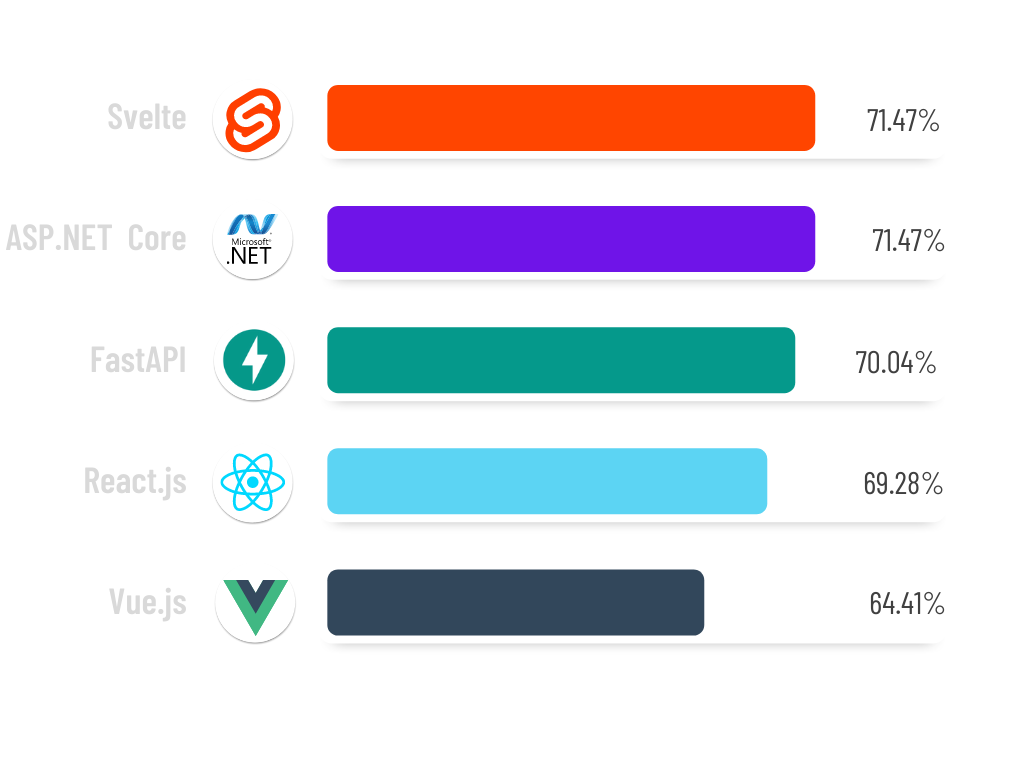
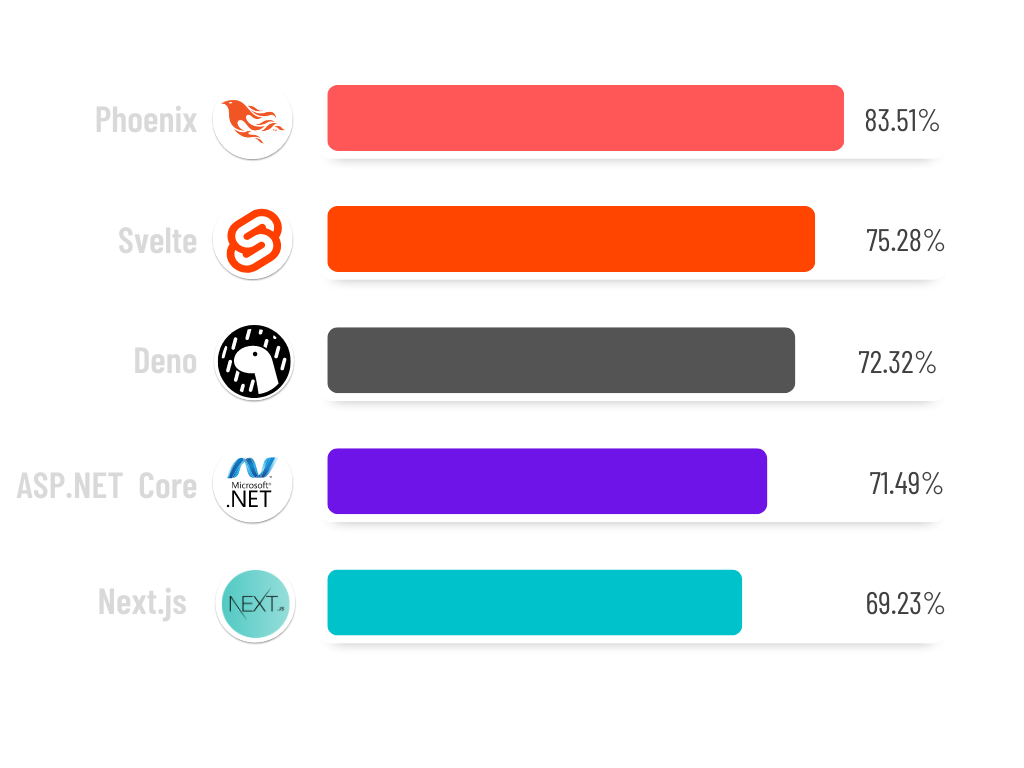
2022 survey update and demo inclusion

diff --git a/index.html b/index.html
@@ -62,7 +62,7 @@
           <h1>So, what about the hype?</h1>
         </section>
         <section>
-          <h2>Stackoverflow most loved web framework 2021</h2>
+          <h2>Stackoverflow most loved web framework 2022</h2>
           <img height="700" data-src="/assets/stackoverflow-chart.PNG" />
         </section>
         <section>
@@ -259,29 +259,6 @@
         </section>
 
         <section>
-          <h1>
-            The
-            <span
-              style="
-                background-image: linear-gradient(
-                  to left,
-                  violet,
-                  indigo,
-                  blue,
-                  green,
-                  yellow,
-                  orange,
-                  red
-                );
-                -webkit-background-clip: text;
-                -webkit-text-fill-color: transparent;
-              "
-              >magical</span
-            >
-            disappearing framework
-          </h1>
-        </section>
-        <section>
           <div style="display: flex; flex-direction: row; gap: 0.5rem">
             <pre class="javascript">
             <code class="hljs" style="font-size: 1rem; line-height: 1.1rem;" data-trim><script type="text/template">
@@ -323,6 +300,31 @@
           </pre>
           </div>
         </section>
+
+        <section>
+          <h1>
+            The
+            <span
+              style="
+                background-image: linear-gradient(
+                  to left,
+                  violet,
+                  indigo,
+                  blue,
+                  green,
+                  yellow,
+                  orange,
+                  red
+                );
+                -webkit-background-clip: text;
+                -webkit-text-fill-color: transparent;
+              "
+              >magical</span
+            >
+            disappearing framework
+          </h1>
+        </section>
+
         <section data-transition="slide-in none">
           <img
             style="margin-bottom: 0"
@@ -686,9 +688,9 @@
             </li>
           </ul>
         </section>
-        <!-- <section>
+        <section>
           <h1>DEMO 🤓</h2>
-        </section> -->
+        </section>
         <section>
           <h2>Thank you for your attention!</h2>
           <img src="/assets/meme3.webp" width="800" />
@@ -702,7 +704,7 @@
         </section>
       </div>
     </div>
-
+npm 
     <script src="dist/reveal.js"></script>
     <script src="plugin/zoom/zoom.js"></script>
     <script src="plugin/notes/notes.js"></script>
